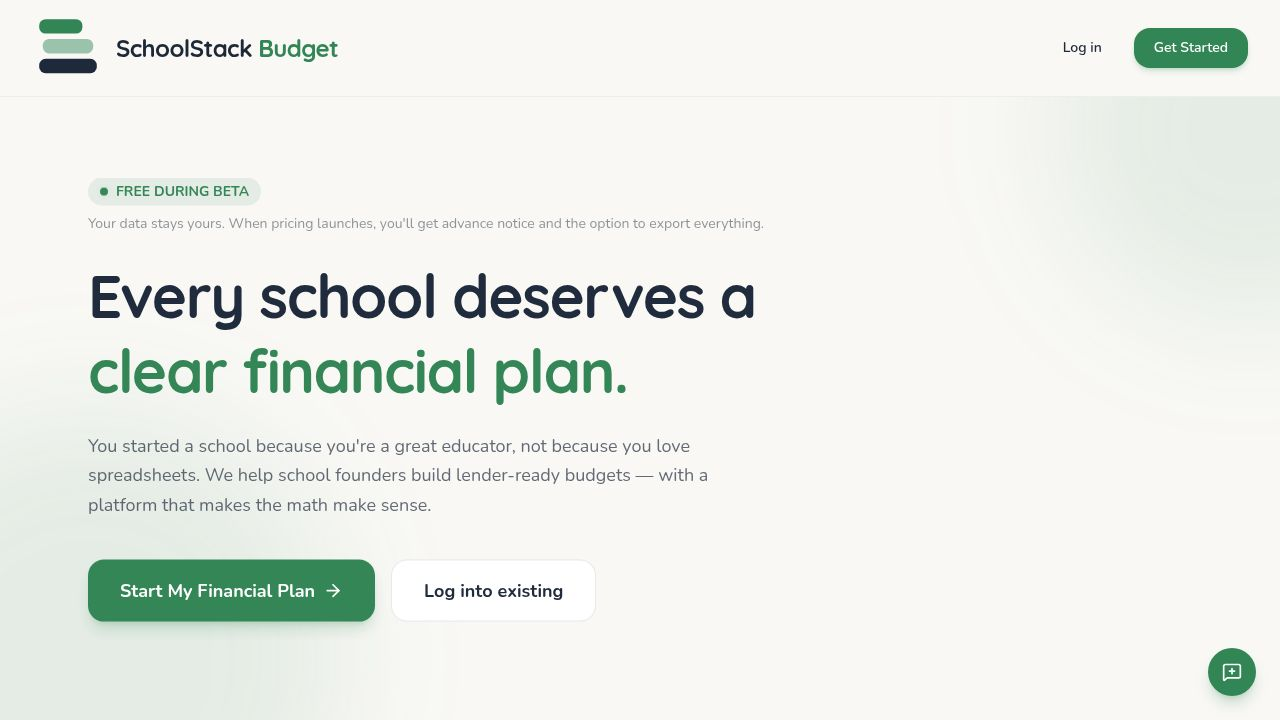
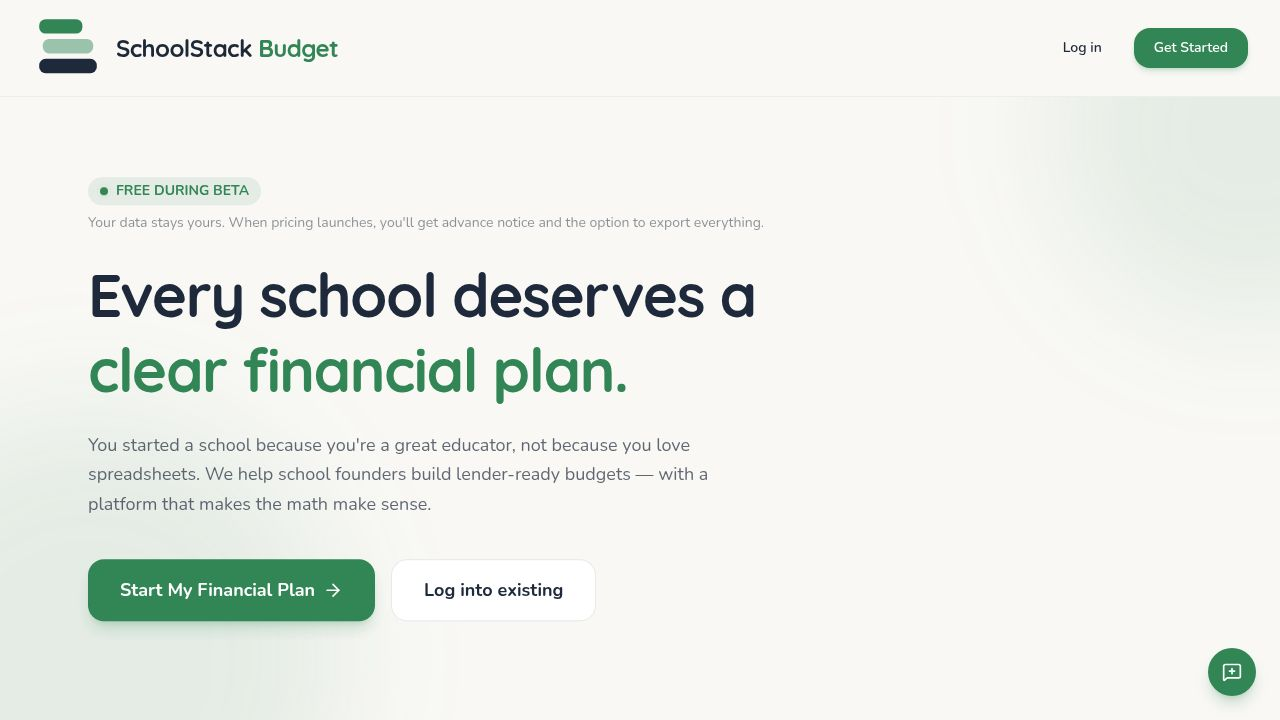
Task #137: Budget narrative & assumption justification system (T005 final)
Export gating (critical-only):
- Server-side 422 enforcement on all 6 export routes for
  unresolved critical flags only (warning flags show but don't block)
- Frontend wizard progression matches critical-only gating

Narrative prefills with real model numbers:
- revenueAssumptions: tuition per program, escalation rate, Y1 revenue
- staffingPhilosophy: FTE + student-to-teacher ratio (flag or form data)
- enrollmentStrategy + retentionPlan: enrollment/retention figures

TypeScript fixes:
- Fixed unsafe cast of consultantData (via unknown intermediate)
- Aligned prefill keys to actual NARRATIVE_SECTIONS keys

Test suite: 41 passing tests with correct flagType strings

diff --git a/artifacts/school-financial-model/src/pages/model-wizard/steps/NarrativeStep.tsx b/artifacts/school-financial-model/src/pages/model-wizard/steps/NarrativeStep.tsx
@@ -118,32 +118,20 @@ function buildPrefill(key: NarrativeKey, formValues: Record<string, unknown>, co
     return `We project ${retRate}% student retention year over year.`;
   }
 
-  if (key === "tuitionRationale") {
+  if (key === "revenueAssumptions") {
     const tuitionPrograms = programs.filter(p => p.annualTuition > 0);
     if (tuitionPrograms.length > 0) {
       const lines = tuitionPrograms.map(p => `${p.name}: ${fmt$(p.annualTuition)}/year`);
       const escRate = revenue?.annualTuitionIncrease ?? 0;
       const escText = escRate > 0 ? ` with ${escRate}% annual increases` : "";
-      return `Our tuition structure: ${lines.join("; ")}${escText}.`;
-    }
-  }
-
-  if (key === "revenueModel") {
-    const enabledRows = revenueRows.filter(r => r.enabled && r.amounts?.[0] > 0);
-    if (enabledRows.length > 0) {
-      const y1Total = enabledRows.reduce((sum, r) => sum + (r.amounts[0] || 0), 0);
+      const enabledRows = revenueRows.filter(r => r.enabled && r.amounts?.[0] > 0);
+      const supplementalY1 = enabledRows.reduce((sum, r) => sum + (r.amounts[0] || 0), 0);
       const tuitionY1 = programs.reduce((sum, p) => sum + (p.annualTuition * (p.year1 || 0)), 0);
-      const grandTotal = y1Total + tuitionY1;
-      if (grandTotal > 0) {
-        const tuitionPct = tuitionY1 > 0 ? ((tuitionY1 / grandTotal) * 100).toFixed(0) : "0";
-        return `Year 1 projected revenue: ${fmt$(grandTotal)} total (${tuitionPct}% from tuition, remainder from supplemental sources).`;
-      }
-    }
-    if (programs.length > 0) {
-      const tuitionY1 = programs.reduce((sum, p) => sum + (p.annualTuition * (p.year1 || 0)), 0);
-      if (tuitionY1 > 0) {
-        return `Year 1 projected tuition revenue: ${fmt$(tuitionY1)}.`;
-      }
+      const grandTotal = supplementalY1 + tuitionY1;
+      const revSuffix = grandTotal > 0
+        ? ` Year 1 projected revenue: ${fmt$(grandTotal)} (${tuitionY1 > 0 ? ((tuitionY1 / grandTotal) * 100).toFixed(0) : "0"}% tuition).`
+        : "";
+      return `Our tuition structure: ${lines.join("; ")}${escText}.${revSuffix}`;
     }
   }
 
@@ -181,7 +169,7 @@ export function NarrativeStep({ modelId }: NarrativeStepProps) {
     },
   });
 
-  const assumptionFlags: AssumptionFlag[] = (consultantData as Record<string, unknown>)?.assumptionFlags as AssumptionFlag[] || [];
+  const assumptionFlags: AssumptionFlag[] = (consultantData as unknown as Record<string, unknown>)?.assumptionFlags as AssumptionFlag[] || [];
 
   useEffect(() => {
     const existing = getValues("assumptionFlagResponses") as Array<{ field: string; flagType: string; reason: string }> | undefined;